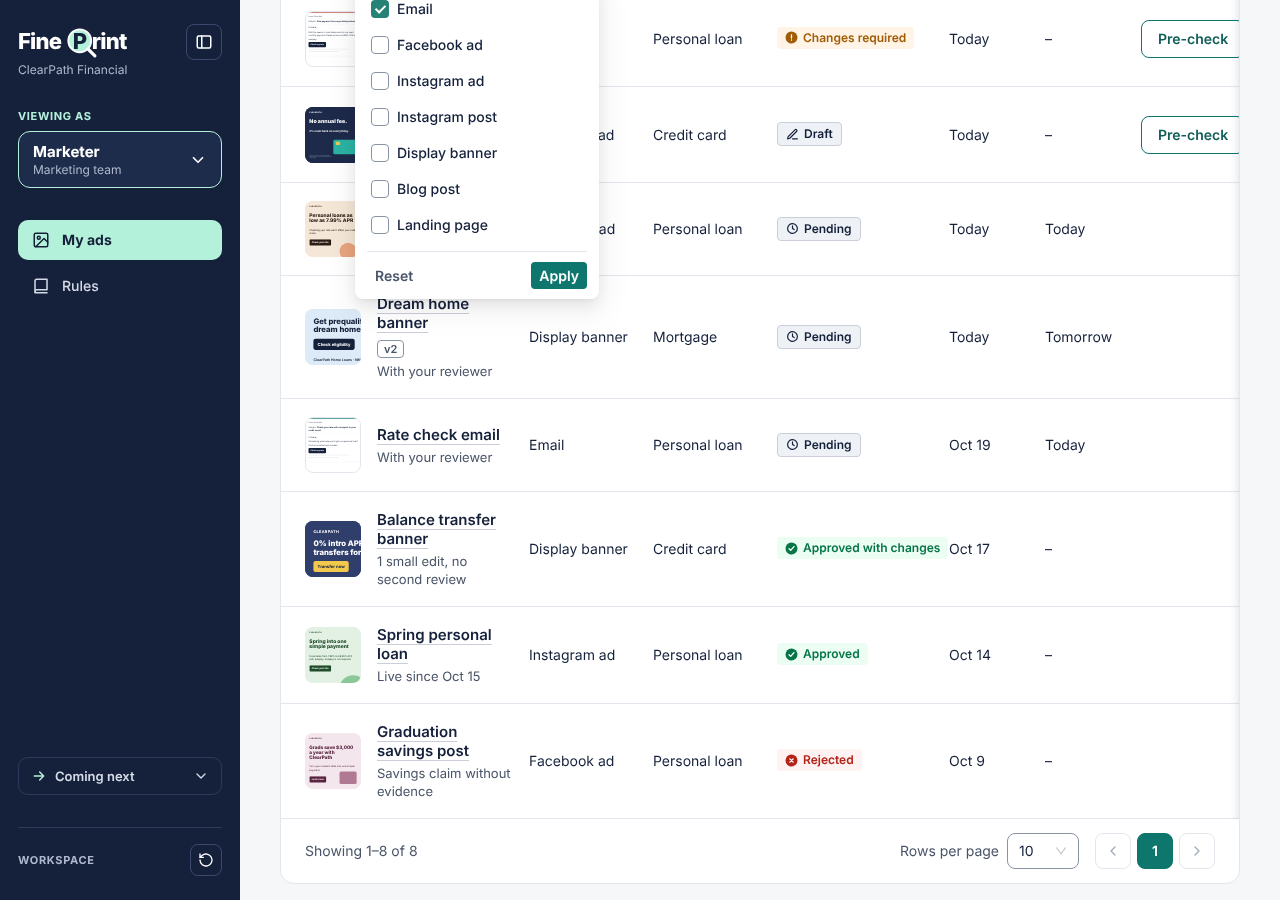
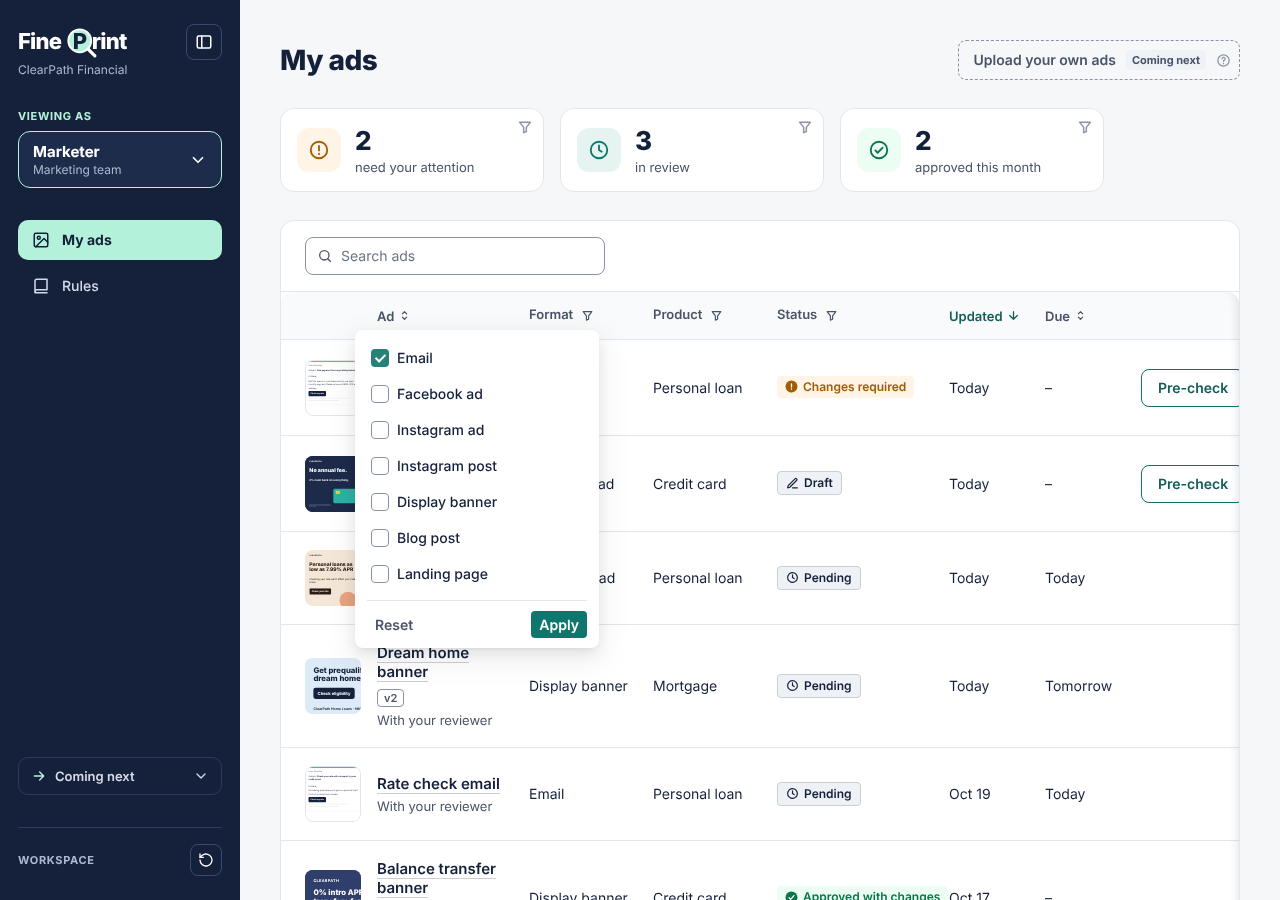
My ads: no extra line under sent-back or pending ads; seen marks per role, race fixed
The Status column and the Updated tag say it. Seen marks use the role
the page shows and only the ad the page is on, so a page moving to the
next ad can't mark the last one seen for another role.

Claude-Session: https://claude.ai/code/session_01GajTyz92bBm6dN9cgoMqN2

diff --git a/src/components/AdTable.tsx b/src/components/AdTable.tsx
@@ -54,17 +54,16 @@ export interface Filters {
 
 export const NO_FILTERS: Filters = { format: [], product: [], status: [], due: [] }
 
-function myAdsSubLine(row: AdRow, today: string): string {
+/** A line under the name only when it adds something the Status and date columns don't. */
+function myAdsSubLine(row: AdRow, today: string): string | null {
   switch (row.status) {
     case 'draft': {
       const parts = [row.critical && `${row.critical} Critical`, row.caution && `${row.caution} Caution`].filter(Boolean)
       return parts.length ? `Pre-check: ${parts.join(', ')}` : 'Pre-check: good standing'
     }
     case 'changes_required':
-      return `${plural(row.sent, 'comment')} from your reviewer`
     case 'pending':
-      // The Due column has the date.
-      return 'With your reviewer'
+      return null
     case 'approved_with_changes':
       return `${plural(row.sent, 'small edit')}, no second review`
     case 'approved':
@@ -278,7 +277,7 @@ export function AdTable({
   onPage: (page: number) => void
 }) {
   const config = VIEWS[view]
-  const { today, version } = useWorkspace()
+  const { role, today, version } = useWorkspace()
   const [, setSearchParams] = useSearchParams()
   const [search, setSearch] = useState('')
   const [q, setQ] = useState('')
@@ -360,16 +359,18 @@ export function AdTable({
                 {row.name}
               </button>
               {row.current_version > 1 && <span className="fp-version-chip">v{row.current_version}</span>}
-              {view !== 'history' && isUpdated(row.id, row.updated_at) && (
+              {view !== 'history' && isUpdated(role, row.id, row.updated_at) && (
                 <span className="fp-updated-chip">
                   <span aria-hidden="true" className="fp-updated-dot" />
                   Updated
                 </span>
               )}
             </span>
-            <span style={{ fontSize: 13, lineHeight: '18px', color: '#4A5468' }}>
-              {view === 'my-ads' ? myAdsSubLine(row, today) : sourceLabel(row.source)}
-            </span>
+            {(view === 'my-ads' ? myAdsSubLine(row, today) : sourceLabel(row.source)) && (
+              <span style={{ fontSize: 13, lineHeight: '18px', color: '#4A5468' }}>
+                {view === 'my-ads' ? myAdsSubLine(row, today) : sourceLabel(row.source)}
+              </span>
+            )}
           </span>
         </div>
       ),

diff --git a/src/lib/seen.ts b/src/lib/seen.ts
@@ -1,4 +1,5 @@
 import { useEffect } from 'react'
+import type { Role } from './types'
 
 /**
  * "Updated" marks: what changed since you last opened it, like unread mail. Kept in this browser:
@@ -7,8 +8,7 @@ import { useEffect } from 'react'
 const SINCE_KEY = 'fp_seen_since'
 
 /** Each role has its own marks: a reviewer opening an ad doesn't mean the marketer has seen the change. */
-function seenKey(): string {
-  const role = /(?:^|;\s*)fp_role=marketer/.test(document.cookie) ? 'marketer' : 'reviewer'
+function seenKey(role: Role): string {
   return `fp_seen_${role}`
 }
 
@@ -50,18 +50,21 @@ export function resetSeen() {
 }
 
 /** True when the ad changed after you last opened it (and after your first visit). */
-export function isUpdated(adId: number, updatedAt: string | null | undefined): boolean {
+export function isUpdated(role: Role, adId: number, updatedAt: string | null | undefined): boolean {
   if (!updatedAt) return false
-  const seen = read<Record<string, string>>(seenKey(), {})[adId] ?? since()
+  const seen = read<Record<string, string>>(seenKey(role), {})[adId] ?? since()
   return Date.parse(updatedAt) > Date.parse(seen)
 }
 
-/** Opening an ad marks it seen, now and again whenever it reloads. */
-export function useMarkSeen(adId: number | null, updatedAt: string | null | undefined) {
+/**
+ * Opening an ad marks it seen for the role looking at it, now and whenever it reloads. Pass null until
+ * the loaded data is this page's ad (a page moving to the next ad briefly still holds the last one).
+ */
+export function useMarkSeen(role: Role, adId: number | null, updatedAt: string | null | undefined) {
   useEffect(() => {
     if (adId === null) return
-    const seen = read<Record<string, string>>(seenKey(), {})
+    const seen = read<Record<string, string>>(seenKey(role), {})
     seen[adId] = new Date(Math.max(Date.now(), updatedAt ? Date.parse(updatedAt) : 0)).toISOString()
-    write(seenKey(), seen)
-  }, [adId, updatedAt])
+    write(seenKey(role), seen)
+  }, [role, adId, updatedAt])
 }

diff --git a/src/pages/ReviewPage.tsx b/src/pages/ReviewPage.tsx
@@ -35,11 +35,11 @@ interface DecisionResult {
 export function ReviewPage() {
   const params = useParams()
   const adId = Number(params.id)
-  const { version } = useWorkspace()
+  const { role, version } = useWorkspace()
   const [reload, setReload] = useState(0)
   const [cleared, setCleared] = useState<number | null>(null)
   const { latest, error } = useApi<AdDetail>(`/api/ads/${adId}`, version * 1000 + reload)
-  useMarkSeen(latest ? latest.ad.id : null, latest?.ad.updated_at)
+  useMarkSeen(role, latest && latest.ad.id === adId ? adId : null, latest?.ad.updated_at)
   const detail = latest && latest.ad.id === adId ? latest : null
 
   if (cleared === adId) return <QueueCleared />

diff --git a/src/pages/PreCheckPage.tsx b/src/pages/PreCheckPage.tsx
@@ -40,10 +40,10 @@ interface CheckResult {
 
 export function PreCheckPage() {
   const adId = Number(useParams().id)
-  const { version } = useWorkspace()
+  const { role, version } = useWorkspace()
   const [reload, setReload] = useState(0)
   const { latest, error } = useApi<AdDetail>(`/api/ads/${adId}`, version * 1000 + reload)
-  useMarkSeen(latest ? latest.ad.id : null, latest?.ad.updated_at)
+  useMarkSeen(role, latest && latest.ad.id === adId ? adId : null, latest?.ad.updated_at)
   const detail = latest && latest.ad.id === adId ? latest : null
 
   if (error instanceof ApiError && error.status === 404) {

diff --git a/e2e/tables.spec.ts b/e2e/tables.spec.ts
@@ -31,7 +31,6 @@ test('my ads: stats agree with the rows', async ({ page }) => {
   await expect(stat(page, 'in_review')).toHaveText('3')
   await expect(page.locator('.fp-ad-link')).toHaveCount(8)
   await expect(page.getByRole('link', { name: /^Pre-check / })).toHaveCount(2)
-  await expect(page.getByText('2 comments from your reviewer')).toBeVisible()
   await expect(page.getByText('Pre-check: 1 Critical, 1 Caution')).toBeVisible()
   await page.screenshot({ path: 'screenshots/m3-my-ads.png', fullPage: true })
 })

diff --git a/e2e/reviewer-quotes.spec.ts b/e2e/reviewer-quotes.spec.ts
@@ -26,7 +26,7 @@ test('a reviewer finding that quotes the ad is pinned there, for both roles, and
 
   await page.getByRole('button', { name: 'Request changes' }).click()
   await page.getByRole('dialog').getByRole('button', { name: 'Request changes' }).click()
-  await expect(page).toHaveURL(/\/review\/4$/)
+  await expect(page).not.toHaveURL(/\/review\/3$/)
 
   // The marketer sees the same pin, and Edit on ad opens those words.
   await setRole(page, 'marketer')

diff --git a/src/components/ViewDrawer.tsx b/src/components/ViewDrawer.tsx
@@ -27,7 +27,7 @@ export function ViewDrawer() {
   const id = Number(params.get('view'))
   const open = Number.isFinite(id) && id > 0
   const { data: detail, error } = useApi<AdDetail>(open ? `/api/ads/${id}` : null, version)
-  useMarkSeen(detail ? detail.ad.id : null, detail?.ad.updated_at)
+  useMarkSeen(role, detail && detail.ad.id === id ? id : null, detail?.ad.updated_at)
   const missing = Boolean(error)
 
   const close = () =>

diff --git a/e2e/review.spec.ts b/e2e/review.spec.ts
@@ -72,7 +72,6 @@ test('reviewer requests changes on Fall personal loan', async ({ page }) => {
   await page.goto('/my-ads')
   const row = page.locator('tr', { hasText: 'Fall personal loan' })
   await expect(row.getByText('Changes required')).toBeVisible()
-  await expect(row.getByText('2 comments from your reviewer')).toBeVisible()
 })
 
 test('approve shows Undo, and Undo restores everything', async ({ page }) => {

diff --git a/e2e/tour.spec.ts b/e2e/tour.spec.ts
@@ -31,7 +31,6 @@ test('README tour', async ({ page }) => {
   await page.locator('.fp-role-button').click()
   await page.getByRole('menuitem', { name: /Marketer/ }).click()
   await expect(page).toHaveURL(/\/my-ads$/)
-  await expect(page.locator('tr', { hasText: 'Fall personal loan' }).getByText('2 comments from your reviewer')).toBeVisible()
 
   // 5. Fix it and resubmit.
   await page.goto('/ads/3/pre-check')

diff --git a/README.md b/README.md
@@ -90,7 +90,7 @@ From spec section 11. The sidebar shows the first three under "Coming next":
 1. **Open Queue.** You start as a Reviewer. There are 9 ads, sorted by due date, with 4 due today. The stat cards are computed from the data; click one to show just those ads. (Insights, under History, has the throughput story.)
 2. **Review Fall personal loan.** Click **Review** (it opens a new tab). Pins on the ad and cards on the right are linked. Try the info icon next to "Claims · Rate claims", the submitter's note, and **Keep** on finding 1. Add a finding of your own, such as "Pick an image that doesn't suggest same-day cash."
 3. **Request changes.** The message comes prefilled from what you kept and added. The next ad in the queue opens in the same tab, and the toast offers **Undo** for 5 seconds.
-4. **Switch to Marketer** (VIEWING AS, top left). Fall personal loan now shows "Changes required · 2 comments from your reviewer" in My ads.
+4. **Switch to Marketer** (VIEWING AS, top left). Fall personal loan now shows "Changes required" in My ads, with an Updated tag.
 5. **Fix it and resubmit.** Click **Pre-check**. The reviewer's comments are at the top. On the rate suggestion, click **Swap** (top right of the suggested wording): the headline now reads "Personal loans from 7.99% to 29.99% APR with autopay" and shows "Edited". (Any text on the ad can also be clicked and edited by hand.) Swapping marks it resolved: the check in the card's corner turns green. Add a note if you like, and **Submit**. It goes back to Pending as v2.
 6. **Approve the What changed view.** Switch back to Reviewer and open Fall personal loan (now v2) from the Queue. You see v1 above v2, the rate claim under **Resolved**, and green markers on the change. Click **Approve**.
 7. **Check History.** Search for "Fall personal loan" to find it at the top. The approved-this-week count went up by one. Click the name for the drawer with its full activity, and **Download ad** to get the approved ad as a PNG, ready to launch.

diff --git a/BLOCKED.md b/BLOCKED.md
@@ -56,3 +56,4 @@ The data model's `applies_to` allows products and/or "affiliate", but the 10-Add
 - **One mention of AI in the UI** (owner's call): the info tooltip on Auto suggestions and What changed says "Auto suggestions are generated automatically by AI and can be wrong. Use them as a starting point; the call is yours." Everywhere else it's still "auto check" and "Auto suggestions".
 - **Review layout follows Pre-check** (owner's call): the ad (or v1/v2) stays in view on the left; on the right, Your findings comes first, like "From your reviewer" for the marketer, then the auto suggestions. The finding box opens from an "Add a finding" button instead of always showing (the wireframe has it under the ad, always open).
 - **The Queue sorts by Updated** (owner's call), most recent first, and Review's Previous / "n of 9" / Next follows that order. The 04 wireframe lists the Queue by due date (Fall personal loan "3 of 9"); Due is still a sortable column. Toasts carry no deadlines, and a past due date shows in the "needs action" orange rather than red.
+- **No comment count under sent-back ads** (owner's call): My ads shows no line under sent-back or pending ads (the Status column and the Updated tag say it); the count miscounted when the reviewer wrote only a message.
